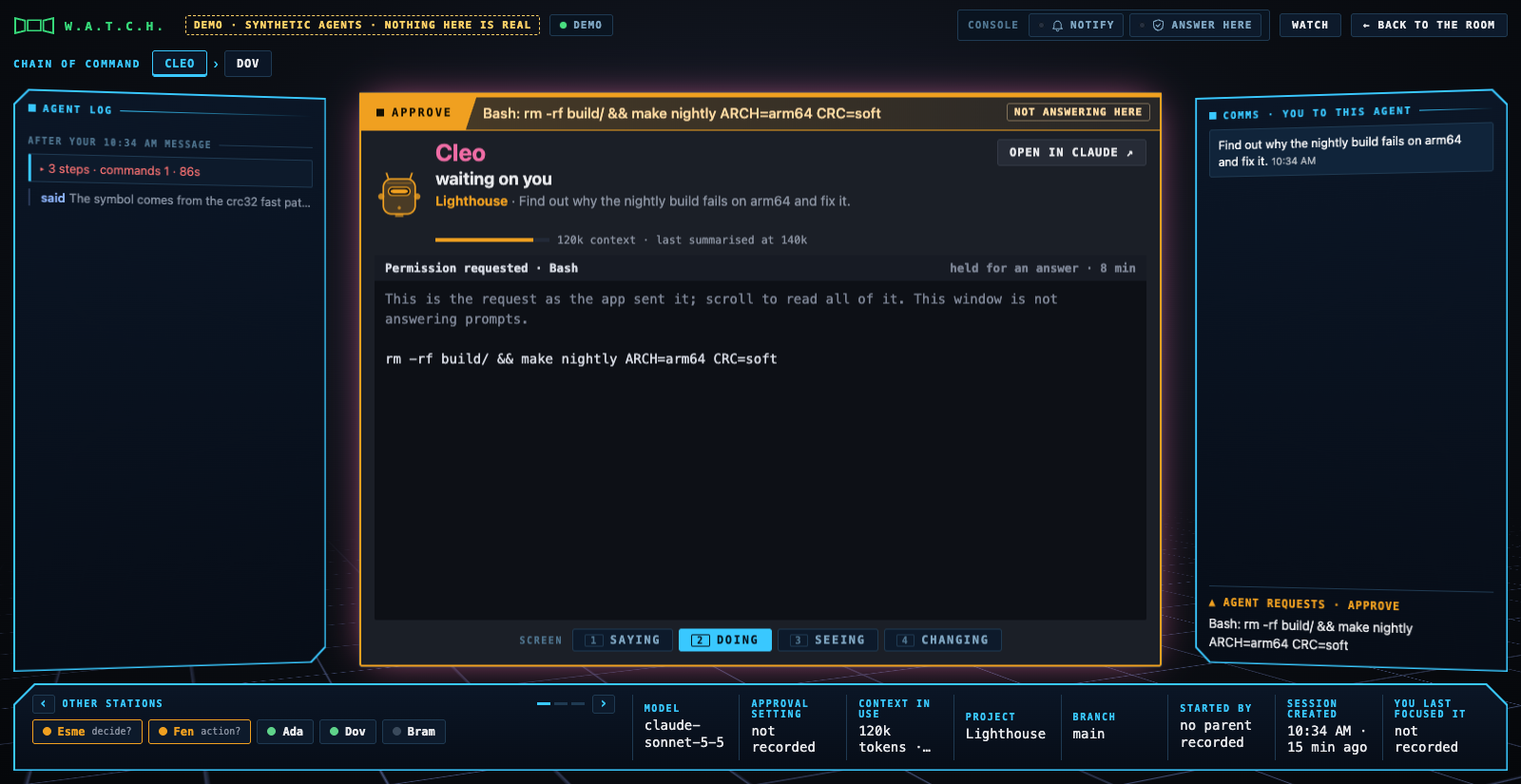
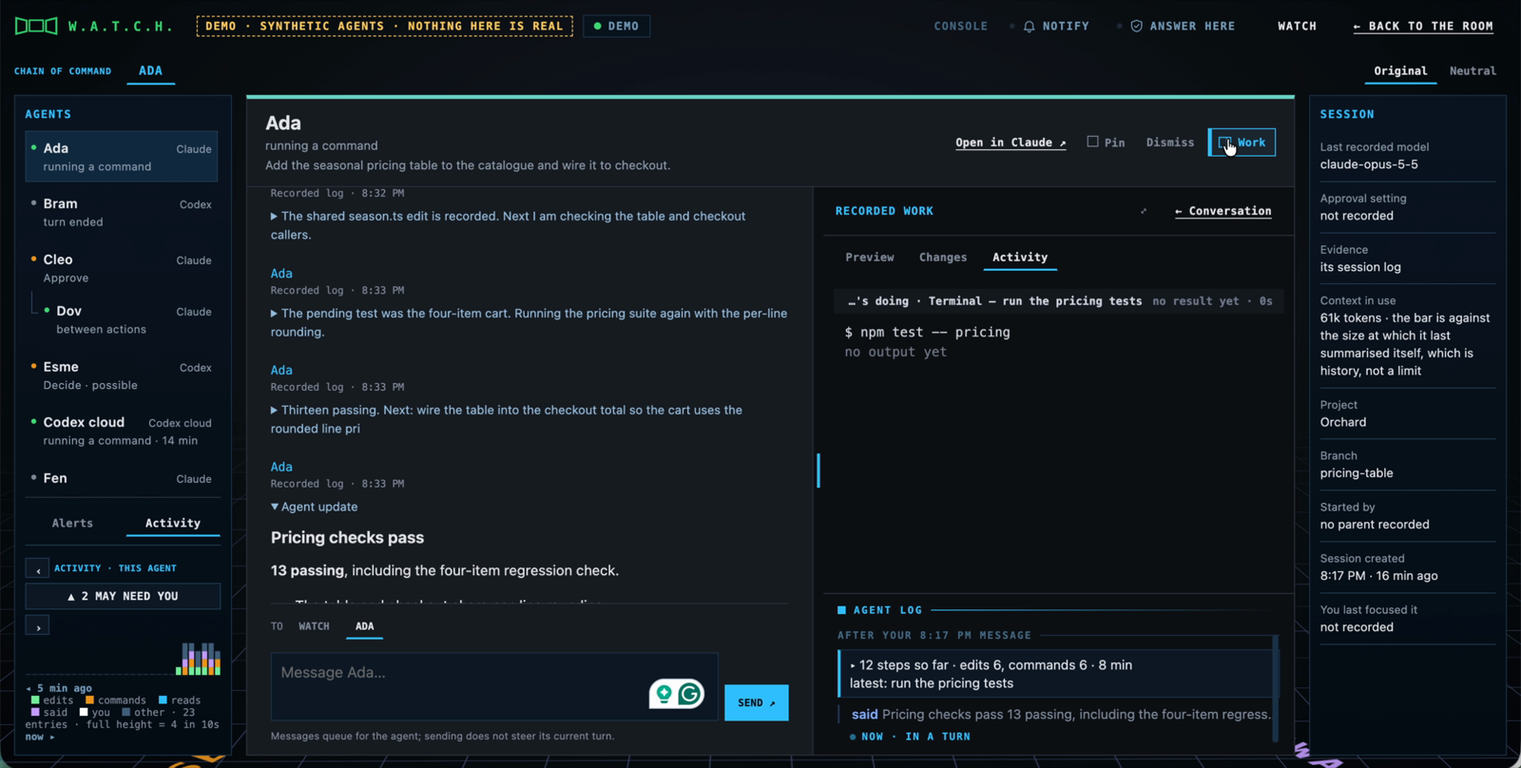
Refresh README capabilities and recorded demo

diff --git a/src/web/index.html b/src/web/index.html
@@ -2778,9 +2778,9 @@ function demo(){
   ev('e:demo-dot',{kind:'run',id:'g3',cmd:'sleep 120 && git status --short',cwd:P.orchard,seen:true}); t+=1;
   ev('c:demo-fen',{kind:'read',id:'f1',path:'/Users/demo/Projects/Tidewater/docs/onboarding.md'}); t+=4; ev('c:demo-fen',{kind:'result',id:'f1',text:'# Onboarding\n\nInstall the CLI…'}); t+=30;
   ev('c:demo-fen',{kind:'edit',id:'f2',path:'/Users/demo/Projects/Tidewater/docs/onboarding.md',before:'Install the CLI with pip.',after:'Install the CLI with `brew install tidewater`.'}); t+=6; ev('c:demo-fen',{kind:'result',id:'f2',text:'ok'}); t+=40;
-  ev('c:demo-fen',{kind:'say',text:'Done. The onboarding guide now covers the brew install, the first login and the three commands people actually use. Three files changed; the docs build passes.'}); t+=2; ev('c:demo-fen',{kind:'turn_end'});
+  ev('c:demo-fen',{kind:'say',text:'## Onboarding guide updated\n\nThe installation instructions now use `brew install tidewater`.\n\n- **Installation:** the supported package and version.\n- **Configuration:** the documented default settings.\n- **First project:** three everyday commands.\n\nThe docs build passes. The recorded change is ready to review.'}); t+=2; ev('c:demo-fen',{kind:'turn_end'});
   ev('x:demo-bram',{kind:'read',id:'b1',path:'/Users/demo/Projects/Orchard/src/pricing/table.ts'}); t+=5; ev('x:demo-bram',{kind:'result',id:'b1',text:'export const seasons = …'}); t+=90;
-  ev('x:demo-bram',{kind:'say',text:'Verdict: GO, with one caveat — the rounding in cents is done after the discount, so a 15% season on $19.99 is $16.9915: the table shows $16.99, but the cart sums the unrounded cents, so four of them come to $67.97 instead of $67.96. Ada should round once, per line.'}); t+=2; ev('x:demo-bram',{kind:'turn_end'});
+  ev('x:demo-bram',{kind:'say',text:'## Review: one rounding issue\n\nThe table and checkout use different rounding rules. **Fix this before shipping.**\n\n| Four items · 15% off | Total |\n|---|---|\n| Table · rounded per item | $67.96 |\n| Cart · rounded after adding | $67.97 |\n\n### Recommended change\nRound each discounted line in `season.ts`, then use that value in both places.\n\n```ts\nconst linePrice = round(price * (1 - season.discount));\n```\n\n- Add a regression check for the four-item cart.\n- Confirm the receipt uses the same line prices.\n\nI reviewed the change without editing files. Ada is applying the fix.'}); t+=2; ev('x:demo-bram',{kind:'turn_end'});
   ev('x:demo-esme',{kind:'run',id:'e1',cmd:'psql -c "\\d sessions"',why:'inspect the current schema'}); t+=3; ev('x:demo-esme',{kind:'result',id:'e1',text:'Table "public.sessions" … 14 columns'}); t+=60;
   ev('x:demo-esme',{kind:'say',text:'Plan: run `alembic upgrade head` against the replica first, then cut over. The table has 2.1 million rows and no created_at index. Should I migrate the old rows too, or only new ones from the cut-over?'}); t+=2; ev('x:demo-esme',{kind:'turn_end'});
   ev('c:demo-cleo',{kind:'web',id:'c0',q:'ld: symbol not found _crc32_hw arm64 linker'}); t+=4;
@@ -2791,11 +2791,12 @@ function demo(){
   ev('c:demo-dov',{kind:'read',id:'d1',path:'/Users/demo/Projects/Lighthouse/build/nightly-2026-10-05.log'}); t+=4; ev('c:demo-dov',{kind:'result',id:'d1',text:'…'}); t+=10;
   ev('c:demo-cleo',{kind:'say',text:'The symbol comes from the crc32 fast path; building with CRC=soft should link. I need to clear the build directory first, which is why I am asking before I run it.'}); t+=2;
   ev('c:demo-cleo',{kind:'perm',pid:'demo-c3',tool:'Bash',text:'rm -rf build/ && make nightly ARCH=arm64 CRC=soft'});      /* a held request: with the switch on, Allow and Deny are shown at the desk and answered on the page */
+  ev('c:demo-ada',{kind:'edit',id:'a-seed',path:P.orchard+'/src/pricing/season.ts',before:'export function seasonalPrice(price, season) {\n  return price * (1 - season.discount);\n}',after:'export function seasonalPrice(price, season) {\n  return round(price * (1 - season.discount));\n}'}); t+=3; ev('c:demo-ada',{kind:'result',id:'a-seed',text:'Updated shared seasonal pricing function.'}); t+=2;
   ev('c:demo-ada',{kind:'run',id:'a0',cmd:'npm test -- pricing',why:'run the pricing tests'}); t+=12; ev('c:demo-ada',{kind:'result',id:'a0',text:'12 passing, 1 pending'}); t+=5;
-  ev('c:demo-ada',{kind:'say',text:'Twelve passing and one pending: the four-item cart, which is the rounding case Bram flagged. Rounding once per line instead of once at the end.'}); t+=4;
+  ev('c:demo-ada',{kind:'say',text:'## Fixing checkout rounding\n\nBram found a one-cent difference in the four-item cart. I moved rounding into the shared pricing function so the table and checkout use the same line price.\n\n```ts\nreturn round(price * (1 - season.discount));\n```\n\n**Validation:** 12 checks passing; the four-item regression check is next. Open **Work → Changes** to inspect the recorded edit.'}); t+=4;
   /* and the present: Ada works on, Dov reads on, a hand-off goes back to Cleo now and then */
   let n=0; const files=['src/pricing/table.ts','src/pricing/season.ts','src/checkout/total.ts','test/pricing.test.ts'], logs=['nightly-2026-10-05.log','nightly-2026-10-04.log','nightly-2026-10-03.log'];
-  const ADA=['Moving the round() into season.ts so the table and the checkout share one rounding rule.','The pending test was the four-item cart. Running the pricing suite again with the per-line rounding.','Thirteen passing. Next: wire the table into the checkout total so the cart uses the rounded line prices.','Checkout total now uses the rounded line prices. One more pass over the test names, then I will summarise what changed.'];
+  const ADA=['The shared `season.ts` edit is recorded. Next I am checking the table and checkout callers.','The pending test was the four-item cart. Running the pricing suite again with the per-line rounding.','Thirteen passing. Next: wire the table into the checkout total so the cart uses the rounded line prices.','## Pricing checks pass\n\n**13 passing**, including the four-item regression check.\n\n- The table and checkout share per-line rounding.\n- Four discounted items total **$67.96** in both views.\n- I am checking the remaining callers before handing this back for review.'];
   const tick=()=>{t=now(); n++;
     if(n%4===3&&(n/4|0)<ADA.length){ev('c:demo-ada',{kind:'say',text:ADA[n/4|0]})}      /* narration as it unfolds: a synthetic line every fourth tick, each once */
     if(n===7){ev('c:demo-dov',{kind:'say',text:'The 04 run linked fine, so the break is between the 03 and 05 runs. Checking what changed in the crc32 build flags between them.'})}

diff --git a/README.md b/README.md
@@ -18,10 +18,12 @@
 </p>
 
 <p align="center">
-  <img src="docs/media/watch-demo.gif" width="1000" alt="The demo room. The Officer of the Watch panel is open at the bottom right, answering What did I miss? with a shift report: a table of agents with project, last step and when, a checklist of who is waiting on you, a quoted verdict, and chips naming the entries it consulted, with a line saying the answer is scripted for the demo. Then Ada's monitor comes to hand and opens into her desk, which steps through its Saying, Doing, Seeing and Changing screens with the timeline and readouts around it, before stepping back into the curved row of monitors and turning along it.">
+  <img src="docs/media/watch-demo.gif" width="1000" alt="A synthetic WATCH room opens into Esme’s conversation and then Ada’s desk, showing formatted agent responses, the parent–child agent tree, session details, activity, and recorded changes in the Work panel before returning to the room.">
 </p>
 
 > **Early.** macOS; on Windows only the automated tests have run, in CI. Python 3 standard library, no dependencies, one HTML page. Watching is safe to try today; read the [trust boundary](#trust-boundary) before switching on anything that answers prompts.
+
+The recording uses fictional agents and projects. The desk centers the conversation, with a separate, resizable Work panel. For public recordings, use `?demo`: live conversations and command output can contain personal information and absolute file paths.
 
 ## Why this exists
 
@@ -29,7 +31,7 @@ You can run several coding agents at once now. What you cannot easily do is watc
 
 W.A.T.C.H. is situational awareness for the time in between. Claude Code, Codex and Cursor each write a session log as they work. W.A.T.C.H. reads those logs as they are written and turns them into a room you can stand in: one monitor per agent, each showing what that agent has open, what it just ran, what it changed, what it said, and whether it is waiting on you. You glance along the row the way you would glance along a row of desks. When one of them needs a look, you step up to it.
 
-Today it watches, can answer Claude Code permission prompts through optional hooks, and can queue messages to an existing local Codex conversation and steer or interrupt its active turn on a verified desktop build. It is the window beside your agents’ windows. (It suits a second screen, left open while you work with the agents on the first.) Where it is going is a command post, one room where you both see your agents and act on them, across providers. The [roadmap](docs/ROADMAP.md) sets that out, and the rules do not change on the way: the person stays in charge, every action is opt-in, and the page never claims more than the log confirms.
+Today it watches, can answer Claude Code permission prompts through optional hooks, and can queue messages to an existing local Codex conversation. Through the Officer of the Watch, it can also steer or interrupt a Codex active turn on a verified desktop build. **A Steer action on an already queued message is not available.** It is the window beside your agents’ windows. (It suits a second screen, left open while you work with the agents on the first.) Where it is going is a command post, one room where you both see your agents and act on them, across providers. The [roadmap](docs/ROADMAP.md) sets that out, and the rules do not change on the way: the person stays in charge, every action is opt-in, and the page never claims more than the log confirms.
 
 ## What you can see
 
@@ -40,7 +42,7 @@ Everything on screen comes from the tools' own records: their session logs, the 
 - **Who is working**, with the step that is open, for as long as the turn runs.
 - **Who stopped, and where:** an idle monitor carries a caption with the agent's last words, a failed last step, or the request it is waiting on.
 - **The goal:** each monitor carries the first message of the session that was read, as a one-line reminder of what that agent is for.
-- **Who started whom:** a chain of command, marked where it was recorded and where it was inferred.
+- **Who started whom:** a chain of command, marked where it was recorded and where it was inferred. The desk's compact agent tree nests children beneath their parents and labels each agent's provider.
 - **Which project:** the row is seated in bays by folder, with the project's name set into the floor, and you can give a folder a display name.
 - **Alerts** when a command looks like a deploy, a push, a delete or a send, from a small shell-aware parser. The Watch button in the bar lets you add your own words to that list, or switch the built-in ones off.
 - **Readouts** the log states: model, branch, approval setting, context in use, when the session began, when you last spoke to it.
@@ -48,7 +50,24 @@ Everything on screen comes from the tools' own records: their session logs, the 
 
 The desk puts one conversation in the monitor, with compact agent navigation on the left and recorded session facts on the right. Choose the agent to send a message directly, or Ask WATCH about the station or room. **Work** slides open beside the conversation: **Preview** shows recorded visual evidence, **Changes** shows recorded edits, and **Activity** combines the current step with the full activity log. Drag the divider, or use its arrow keys, to adjust the work area. Preview may read the current file from disk; Changes is log evidence, not a Git working-tree diff.
 
-On narrow screens, **Agents** and **Details** open as drawers and Work temporarily replaces the conversation. A pending permission has a **Review** action even while Work is closed; Review only reveals the request. Original remains the default theme; Neutral offers a light palette without changing message routing or recorded facts.
+Agent responses support formatted text, including headings, lists, tables, links and code blocks. The composer stays plain text: Enter sends, and Shift+Enter adds a line. The agent list scrolls independently of the **Alerts** and **Activity** controls at its foot.
+
+On narrow screens, **Agents** and **Details** open as drawers and Work temporarily replaces the conversation; **← Conversation** returns to your messages. A pending permission has a **Review** action even while Work is closed; Review only reveals the request. Original remains the default theme; Neutral offers a light palette without changing message routing or recorded facts. Choose a theme in the room's top bar, beside **Chain of command** at a wide desk, or in the desk toolbar on a narrow screen. The choice is remembered in that browser.
+
+### Current provider capabilities
+
+Observation does not imply messaging or control support. Codex messaging, controls and native reads require macOS and an eligible local connection; controls and native reads also require the [verified desktop build](#steering-and-interrupting-codex). Claude permission answering uses the separate optional hooks described below.
+
+| Capability | Local Codex | Claude Code | Cursor | Codex cloud on this computer |
+| --- | --- | --- | --- | --- |
+| Observe recorded activity | Session logs | Session logs; optional hooks | Transcript; tool results not recorded | Commands from the process list |
+| Send a direct message | Queue to an eligible existing chat | Disabled: exact-chat targeting is unverified | Unavailable | Unavailable |
+| Steer or stop the active turn through WATCH | Supported when the control checks pass | Unavailable | Unavailable | Unavailable |
+| Promote an already queued message with Steer | Unavailable | Unavailable | Unavailable | Unavailable |
+| Read native questions and selected model/effort | Supported, read-only, on the verified build | Unavailable | Unavailable | Unavailable |
+| Answer permission prompts in WATCH | Unavailable | Optional permission hooks, with **Answer here** enabled | Unavailable | Unavailable |
+
+You can still open an unsupported desk, inspect the evidence available there, and ask WATCH about it when the Officer is configured. Direct **Send** stays disabled with an explanation. Use the original app for unsupported actions; **Open in…** works only where WATCH has a supported route.
 
 ## What you cannot see
 
@@ -62,7 +81,7 @@ The room shows what those records contain and nothing else. That rules some thin
 - **Not Codex's private channels.** Encrypted messages between agents cannot be read from its log. The separate native observation panel can show supported questions on a verified desktop build; it does not expose approval details or the native message queue.
 - **Not Cursor's results.** Cursor's transcript records what a tool was asked to do, not what came back, so a Cursor step is shown as *returned* when its turn ends, never as done.
 - **Not the future.** "Probably needs you" notices read the agent's last sentences and can be wrong either way.
-- **Not a cloud agent's words.** A Codex cloud agent that works on this computer does it through the ChatGPT app's exec server, one command at a time, and keeps no transcript here. Its monitor is read from the process list instead: the commands as they run, with their folders, and nothing else. Its conversation and Seeing and Changing views say that its words, what it reads and what it changes are not recorded on this computer; the list is sampled about once a second (longer while a folder is being looked up), so a shorter command can be missed, and of several new commands at once the oldest four are examined first and the rest the next sample, so a short-lived one among them can be missed; a finished command is *ended*, never done; "exec server running" never means working, because the server stays up while the agent is idle; and when the list cannot be read the monitor says so and drops any running claim. The list is text: a process is recognised as an exec server by the text of its command, not by proof of what program it is, and a process is told from another by its pid and start time to within a few seconds.
+- **Not a cloud agent's words.** A Codex cloud agent that works on this computer does it through the ChatGPT app's exec server, one command at a time, and keeps no transcript here. Its monitor is read from the process list instead: the commands as they run, with their folders, and nothing else. Its conversation, Preview and Changes views say that its words, what it reads and what it changes are not recorded on this computer; the list is sampled about once a second (longer while a folder is being looked up), so a shorter command can be missed, and of several new commands at once the oldest four are examined first and the rest the next sample, so a short-lived one among them can be missed; a finished command is *ended*, never done; "exec server running" never means working, because the server stays up while the agent is idle; and when the list cannot be read the monitor says so and drops any running claim. The list is text: a process is recognised as an exec server by the text of its command, not by proof of what program it is, and a process is told from another by its pid and start time to within a few seconds.
 
 ## Try it
 
@@ -77,7 +96,7 @@ On Windows, use `py src/server.py` (or `python`) instead of `python3`. [docs/WIN
 
 Then open <http://127.0.0.1:8793/> and press **Unlock**. The server asks your default browser to open a new, unlocked tab, and the room fills with whatever Claude Code, Codex or Cursor sessions have been active in the last twenty minutes (`WINDOW_MIN` to change that, `PORT` to move it).
 
-**No sessions of your own?** Open <http://127.0.0.1:8793/?demo>. A synthetic fleet of fictional agents on fictional projects plays through a sample of what the room can show: working, waiting on you, a question, a hand-off, a sub-agent, last words. One agent holds a permission request you can answer on the page: click its APPROVE tag, then Allow or Deny, and a scripted outcome follows; nothing is sent anywhere, and the switches in the bar work on the page only. There is no rendered preview and no summarisation marker. The demo page reads no logs and needs no key, and the bar says so. The server behind it is the ordinary one: it still creates its key and follows your real logs in the background, because it is the same process; after loading its page and icons, the demo makes no live-data or action requests to it, and it keeps its own project names rather than this browser's.
+**No sessions of your own?** Open <http://127.0.0.1:8793/?demo>. A synthetic fleet of fictional agents on fictional projects plays through a sample of what the room can show: working, waiting on you, a question, a hand-off, a sub-agent, last words. One agent holds a permission request you can answer on the page: click its APPROVE tag, then Allow or Deny, and a scripted outcome follows; nothing is sent anywhere, and the switches in the bar work on the page only. For a recording, open Bram’s desk to show a formatted review with a comparison table and code, then Ada’s **Work → Changes** for the recorded pricing edit. Cleo and Dov demonstrate the parent–child tree; Cleo also has the simulated permission prompt. Reload `?demo` to restart the sample story. There is no rendered preview and no summarisation marker. Direct messages and WATCH answers in the demo are also scripted; they do not contact agents or a model. The demo page reads no logs and needs no key, and the bar says so. The server behind it is the ordinary one: it still creates its key and follows your real logs in the background, because it is the same process; after loading its page and icons, the demo makes no live-data or action requests to it, and it keeps its own project names rather than this browser's.
 
 **Optional hooks** (Claude Code on macOS only). In a second terminal, while the server is running:
 
@@ -89,7 +108,7 @@ If you moved the server with `PORT`, run the installer with the same `PORT` and 
 
 This adds Notification, Stop, SubagentStop and PermissionRequest hooks to your Claude Code settings. The first three only tell the room things sooner than the log would. The fourth lets the room answer permission prompts for you, and is off until you switch it on in a window. Read the [trust boundary](#trust-boundary) first.
 
-**Moving around:** two-finger scroll or drag to turn, or the arrow keys. Hover a monitor and it comes to your hand; click it to step up to its desk. At the desk, keys 1 to 3 switch the monitor between Doing, Seeing and Changing, and a sideways scroll over it does the same. Escape, or "Back to the room", to step back.
+**Moving around:** two-finger scroll or drag to turn, or the arrow keys. Hover a monitor and it comes to your hand; click it to step up to its desk. The conversation is the main view. Open **Work** for **Preview**, **Changes** or **Activity**; when focus is outside the conversation and text fields, keys **1**, **2** and **3** open Activity, Preview and Changes respectively. Drag the Work divider or focus it and use the arrow keys to resize; double-click it to reset. **← Conversation** closes Work. Use **Back to the room** to leave the desk; Escape first closes an active picker or drawer or handles conversation focus before leaving the desk.
 
 **In a terminal instead.** With the server running, in another terminal:
 
@@ -111,8 +130,8 @@ The board and the tail ring the terminal bell when an agent starts waiting on yo
 <p align="center"><img src="docs/media/demo-held.png" width="1000" alt="One monitor brought forward to the centre of the window, facing the camera: an agent named Cleo waiting on you, with an Approve banner across its top and, under your last message to her, what she has been saying."></p>
 <p align="center"><sub><b>In hand.</b> Hover and the monitor comes to you and stays put while you turn the camera, showing what the agent is saying under your last message to it. The banner across its top is the permission request it is waiting on; click its tag to open it at the desk.</sub></p>
 
-<p align="center"><img src="docs/media/demo-desk.png" width="1000" alt="The desk for one agent: the timeline of steps and words on the left grouped under your messages, the agent's screen in the centre on its Saying screen with Doing, Seeing and Changing beside it, your messages and the request it is waiting on, on the right, and a strip of readouts across the bottom: model, approval setting, context in use, project, branch, started by, session created, when you last focused it."></p>
-<p align="center"><sub><b>The previous desk layout.</b> This image shows the earlier four-screen layout. The current desk centers the conversation, with optional work views beside it and compact navigation and session details in side rails. In the live room, Allow and Deny send your decision to the waiting agent; in the demo the page scripts the outcome. "Not recorded" means exactly that.</sub></p>
+<p align="center"><img src="docs/media/demo-desk.png" width="1000" alt="Ada’s current desk in the Original theme: formatted conversation in the center, an agent tree and activity on the left, session details on the right, and the Work panel open beside the conversation."></p>
+<p align="center"><sub><b>The desk.</b> Read the conversation and inspect recorded work alongside it. Work offers Preview, Changes and Activity; its divider adjusts the space. The agent tree preserves parent–child relationships, while session details stay in the right rail. This screenshot uses synthetic demo data.</sub></p>
 
 <p align="center"><img src="docs/media/demo-watch.png" width="1000" alt="The Watch panel open at the top right of the room: a field holding git push origin main, a miniature monitor under it with a red alert tag reading push, a row of kinds with push lit, one rule of your own reading make release is deploy, and the built-in rules unfolded, each with a green switch and a sample of the words it watches."></p>
 <p align="center"><sub><b>Watch.</b> Type a command or a sentence and the panel draws the banner the room would give it. If that is wrong, click what it should be and the room learns those words. Your rules are listed below; the built-in ones are folded under them, each with a switch.</sub></p>
@@ -140,11 +159,13 @@ The board and the tail ring the terminal bell when an agent starts waiting on yo
 
 ### Messaging from the room or desk
 
-Both the room panel and agent desk offer **To: WATCH** and **To: an agent**. Choose the recipient in either place; selecting an agent in the room does not open its desk. Drafts and conversation histories stay with their recipient and context.
+Both the room panel and agent desk offer **To: WATCH** and **To: an agent**. Choose the recipient in either place; selecting an agent in the room does not open its desk. Drafts and conversation histories stay with their recipient and context. An agent draft follows that agent between room and desk. WATCH keeps a separate room draft and separate station drafts; room answers and station answers are shown in their own contexts.
 
 **To an agent** sends your text directly into that eligible Codex conversation’s queue. It does not interpret words such as “pause” as an immediate control. **To WATCH** asks the Officer to interpret your request: it can answer from the room, queue an explicitly addressed message, or use the existing Codex steer and interrupt controls. Direct sends do not require the Officer’s API key. Availability is checked for the exact selected agent; a connected provider alone is insufficient.
 
-Pending messages retain their delivery and reply status across these views. Promoting an already queued message into an active turn is not supported. The Officer’s steering command sends a new instruction; it does not consume or remove an existing queued item.
+Pending messages appear in a compact strip above the composer in the agent view. Expand a row to read the full message; its delivery and reply status stays with the target across room and desk. A queue observed in an app's log does not confirm delivery, and an unknown outcome is not permission to resend. Promoting an already queued message into an active turn is not supported. The Officer’s steering command sends a new instruction; it does not consume or remove an existing queued item.
+
+If you change recipient or context while WATCH is answering, a **View WATCH update** link lets you return to the original answer or error without replacing your current draft or moving you automatically. Speech citations select the relevant agent conversation and reveal the recorded message; work evidence opens in Work.
 
 ### Asking a Codex agent
 
@@ -200,12 +221,12 @@ Read this before relying on Allow / Deny.
 - Allow and Deny exist only in a window with answering switched on, while that one request is the thing on the agent's screen with no panel over it. Each request gets its own pair of buttons, which ignore clicks for the first half second. The hook prints an answer only if it arrived whole. curl is told to ignore proxies and `~/.curlrc`. Prompts that reach the room only as a notification (sandbox network access, for example) are shown with "answer it in the app" and cannot be answered here.
 - Rendered previews: an HTML file is served only if an agent's successful write was seen for it, it is a regular file reached without symlinks, it has only one name (a hard link could be a second name for any file, the key included, so none is served), it is outside private folders, and it still has the file id that was recorded (an id a filesystem may reuse after a file is deleted, so a file deleted and replaced under the same name is not always told apart). Beside such a page, styles, scripts, images and fonts in the same folder tree are served, opened one path component at a time with symlinks refused, from the same folder (by identity) that was granted. On Windows only the page itself (or an image the agent was handed) is served, never the styles, scripts and images beside it: Python's os API cannot open a folder and walk down from it there, and a walk by name cannot be made atomic, so no folder is granted on Windows until a walk pinned through Windows directory handles exists (see the roadmap). A granted page is first walked by name from its drive root, where nothing may be a link or junction (each name a snapshot taken before the open), then opened and required to carry the file id that was granted; a different file reached under that name, through a link or otherwise, is not served, with the id-reuse caveat above. A path with a second colon, which names an alternate data stream, is refused. Windows previews need Python 3.12 or later, which can report full-width Windows file ids (before it they are cut to 64 bits, which ReFS does not keep unique), so nothing is previewed there on older Pythons; the server checks the Python version, not whether the filesystem supplied a full id. Files hard-linked by pnpm into `node_modules` are not served on either system. Previews run sandboxed under a content policy that blocks other origins. That limits what a preview can fetch; it is not a guarantee that nothing can leave the machine.
 - The terminal view reads the key from `~/.live-room/key` and connects only to 127.0.0.1, ignoring any proxy setting, so the key in its query string never reaches a proxy. Log text is stripped of control, format and bidi characters before it is printed, so an agent cannot send escape sequences to your terminal, or reorder what it shows, through its own log. It has no Allow or Deny. `--tab` and `--split` install only the profile's colours and names: a profile file holding anything else (a command or a trigger) is refused.
-- When you ask the Officer of the Watch a question, the server sends up to the last twenty turns of your conversation with it (including earlier exchanges from the same day that the page kept on this computer and shows you as such), its own instructions, the selected station or room context and saved per-turn context labels, and bounded excerpts of the room's kept steps (commands, file paths, messages, questions, as the logs recorded them) to api.anthropic.com, under the key in `~/.live-room/anthropic-key`. Nothing is sent unless you ask; the key never reaches the page; the request goes to that one host over its own connection and follows no redirect; an API error comes back as fixed words, never the API's own text. Each question first gets an isolated intent check with a thirty-second deadline. A normal log question can then make up to six more API requests within two minutes (up to seven requests and two and a half minutes overall), whatever the network does (at the deadline the socket is shut from this side, whichever object holds it, and no more than four such connections may be open at once); at most twenty questions a minute and two at a time are accepted, counted across every window, so anything on this machine holding the room's key (the route is `/ask`) can spend that allowance. Log text is untrusted input to the model: its tools are read-only, so a poisoned transcript cannot reach an agent or the server, but it could make the Officer say something wrong or propose one of the screen actions above (filter, go to, dismiss, a draft that still waits for your Copy click); the panel reports every action it took, and each is undone from the screen. The key file is opened without following links and checked as opened (a plain file, yours, mode 600); the whole project tree (everything but .git) and everything git has staged are scanned for key-shaped strings in file and folder names, in link text, and in contents whatever the size; a folder that cannot be listed, a file that cannot be read, or a pipe, socket or device counts as not clean. Anything key-shaped that an agent wrote into a log is replaced before it reaches the model or the page. The scan does not follow links and does not see inside .git's objects or an encoded or split key.
+- When you ask the Officer of the Watch a question, the server sends up to the last twenty WATCH conversation turns matching the selected room or station context (including matching earlier exchanges from the same day that the page kept on this computer and shows you as such), its own instructions, the selected station or room context and saved per-turn context labels, and bounded excerpts of the room's kept steps (commands, file paths, messages, questions, as the logs recorded them) to api.anthropic.com, under the key in `~/.live-room/anthropic-key`. Nothing is sent unless you ask; the key never reaches the page; the request goes to that one host over its own connection and follows no redirect; an API error comes back as fixed words, never the API's own text. Each question first gets an isolated intent check with a thirty-second deadline. A normal log question can then make up to six more API requests within two minutes (up to seven requests and two and a half minutes overall), whatever the network does (at the deadline the socket is shut from this side, whichever object holds it, and no more than four such connections may be open at once); at most twenty questions a minute and two at a time are accepted, counted across every window, so anything on this machine holding the room's key (the route is `/ask`) can spend that allowance. Log text is untrusted input to the model: its tools are read-only, so a poisoned transcript cannot reach an agent or the server, but it could make the Officer say something wrong or propose one of the screen actions above (filter, go to, dismiss, a draft that still waits for your Copy click); the panel reports every action it took, and each is undone from the screen. The key file is opened without following links and checked as opened (a plain file, yours, mode 600); the whole project tree (everything but .git) and everything git has staged are scanned for key-shaped strings in file and folder names, in link text, and in contents whatever the size; a folder that cannot be listed, a file that cannot be read, or a pipe, socket or device counts as not clean. Anything key-shaped that an agent wrote into a log is replaced before it reaches the model or the page. The scan does not follow links and does not see inside .git's objects or an encoded or split key.
 - Unlocking opens a private file holding a one-time code (good for two minutes, then deleted; leftovers are removed at start), which the page trades for the key. Anything on this machine can still ask for an unlock tab to be opened, at most once a minute.
 
 ## Windows
 
-The server is written to run on Windows with the same standard-library Python. Only its automated tests have run there, in CI on every push: the Python suite imports the server and exercises the key, the preview checks and the port directly, and a Node test runs the page's path helpers outside a browser. **The application has not been started on Windows, and its page has not been opened in a Windows browser**, so treat it as untried. To try it and tell us how it went, follow **[docs/WINDOWS.md](docs/WINDOWS.md)**: installing everything from scratch, starting it, troubleshooting, and the questions only a real Windows PC can answer. What differs:
+The server is written to run on Windows with the same standard-library Python. Only its automated tests have run there, in CI on every push: the Python suite imports the server and exercises the key, the preview checks and the port directly, and Node tests exercise page logic outside a browser. **The application has not been started on Windows, and its page has not been opened in a Windows browser**, so treat it as untried. To try it and tell us how it went, follow **[docs/WINDOWS.md](docs/WINDOWS.md)**: installing everything from scratch, starting it, troubleshooting, and the questions only a real Windows PC can answer. What differs:
 
 - **Not available:** the hooks (Allow / Deny, and the earlier notices they give). They are shell scripts, and how Claude Code runs hook commands on Windows has not been checked; the installer says so and stops. Without them the room still watches; Claude asks in its own app.
 - **Unverified:** where Claude's desktop app keeps its session records on Windows (`%APPDATA%\Claude` is assumed), so titles, settings and last-focused times from it may be missing; and how Cursor names a project folder there, so a Cursor agent's folder may show as not recorded.
@@ -230,7 +251,7 @@ Early, and in daily use by its author. Every change that touches the key, the ho
     tests/test_officer_controls.py   durable control outcomes and active-turn checks
     tests/test_officer_fulfillment.py  verified pause fulfillment, migration and concurrency
     tests/test_codex_desktop_control.py  bounded desktop bridge and failure handling
-    tests/test_page.js       the page's path helpers, outside a browser (run on every push)
+    tests/test_page.js       UI logic regressions: routing, drafts, histories, capability checks, requests, navigation, layout state and mutation checks (Node)
     scripts/install_hooks.py adds or removes the Claude Code hooks
     scripts/check_secrets.py refuses to publish a key: names, link text and contents, any size, in the working tree and in what git has staged (the staged copy is what a commit publishes); anything it cannot examine fails it. Run before any commit (the tests run it too)
     docs/ROADMAP.md          what is planned and what is unproven
